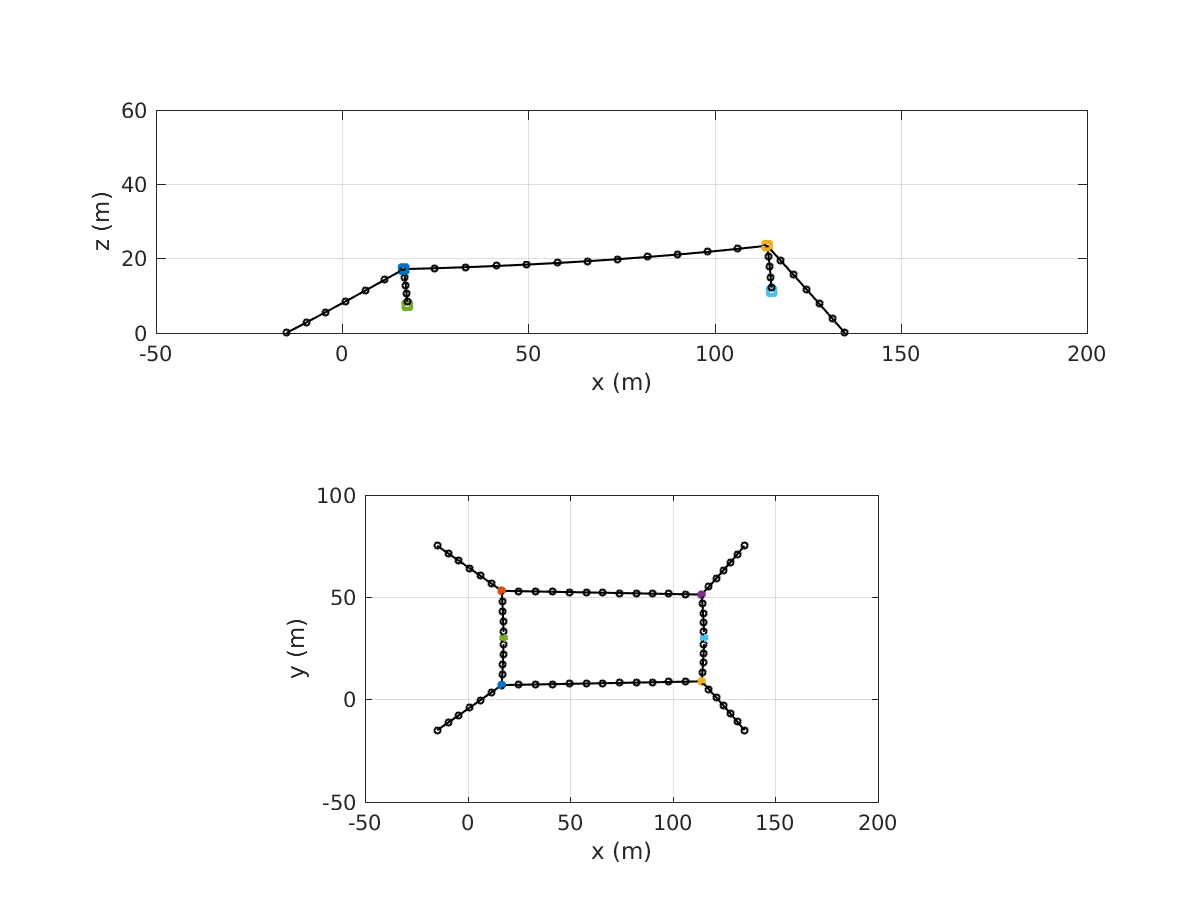
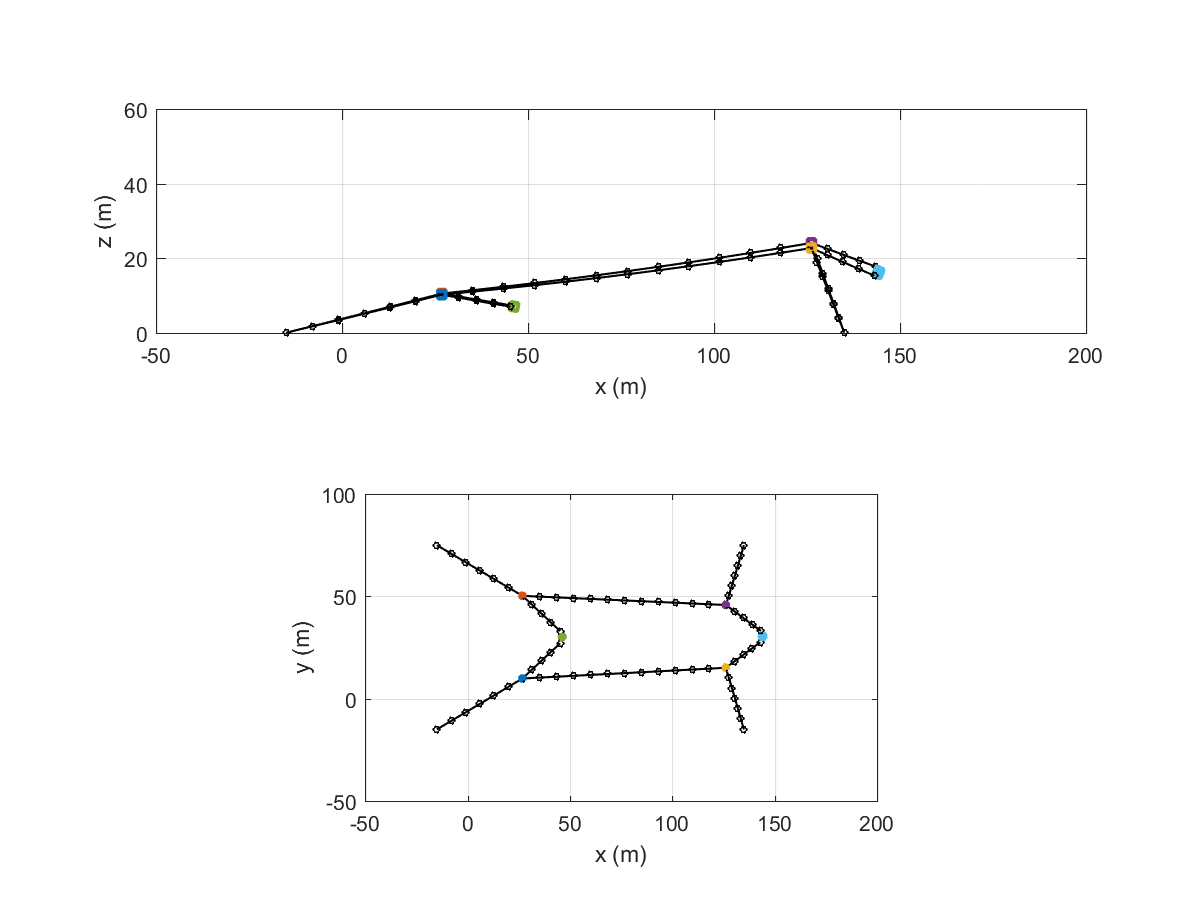
Added function GetTurbineFlowAxisUnitVector.m which returns unit vectors aligned with turbine axes based on turbine orientation.

diff --git a/UWMooringDynamics_Chapter4.m b/UWMooringDynamics_Chapter4.m
@@ -257,18 +257,18 @@ q0 = [Mooring.q0;Mooring.lambda0;Mooring.mu0;Mooring.nu0];
 hFig = plotInstant(q0,1,0);
 saveas(hFig, ['Outputs' filesep 'model_' Mooring.casename '_initial'], 'png')
 
-% solve for the "slackwater" case
-Mooring.environment.StreamVelocity = @ZeroVelocity;
-[qStatic_slackwater,err,data] = UWMDNewton(@EvaluateStaticPhi,q0);
-hFig = plotInstant(qStatic_slackwater,1,0);
-saveas(hFig, ['Outputs' filesep 'model_' Mooring.casename '_final_slackwater'], 'png')
-
-% solve for the "velocity profile" case
-Mooring.environment.StreamVelocity = @UniformVelocity;
-% Mooring.environment.StreamVelocity = Mooring.environment.InletVelocity;
-[qStatic_current,err,data] = UWMDNewton(@EvaluateStaticPhi,q0);
-hFig = plotInstant(qStatic_current,1,0);
-saveas(hFig, ['Outputs' filesep 'model_' Mooring.casename '_final_watercurrent'], 'png')
+% % solve for the "slackwater" case
+% Mooring.environment.StreamVelocity = @ZeroVelocity;
+% [qStatic_slackwater,err,data] = UWMDNewton(@EvaluateStaticPhi,q0);
+% hFig = plotInstant(qStatic_slackwater,1,0);
+% saveas(hFig, ['Outputs' filesep 'model_' Mooring.casename '_final_slackwater'], 'png')
+% 
+% % solve for the "velocity profile" case
+% Mooring.environment.StreamVelocity = @UniformVelocity;
+% % Mooring.environment.StreamVelocity = Mooring.environment.InletVelocity;
+% [qStatic_current,err,data] = UWMDNewton(@EvaluateStaticPhi,q0);
+% hFig = plotInstant(qStatic_current,1,0);
+% saveas(hFig, ['Outputs' filesep 'model_' Mooring.casename '_final_watercurrent'], 'png')
 
 
 %% CFD Coupling
@@ -296,6 +296,7 @@ if Mooring.CFD
         % run CFD to compute velocities and forces, iterate between
         % CFD and running the mooring model until posititions stabalize
         for i = 1:Mooring.OptionsCFD.NumCFDIterations
+            
             % prepare the model configuration parameters for CFD, 
             % parse the Mooring data structure and write inputs for the CFD code
             [probes, rotors] = writeInputsMooringToCFD(Mooring,qStatic); 

diff --git a/CommonFunctions/GetTurbineFlowAxisUnitVector.m b/CommonFunctions/GetTurbineFlowAxisUnitVector.m
@@ -1,0 +1,28 @@
+function [TurbineAxisUnitVector] = GetTurbineFlowAxisUnitVector(qMooring)
+
+% Finds the coordinates of the velocity probes to be used in the CFD model 
+% 
+
+global Mooring
+bodies = Mooring.bodies;
+
+BodiesThatAreTurbines = find(ismember({bodies.Type},'turbine'));
+TurbineAxisUnitVector = zeros(max(size(BodiesThatAreTurbines)),3);
+
+TurbineBodyFixedFlowAxis = [1;0;0];
+
+% Find xyz coordinates of body COM
+
+for i = 1:max(size(BodiesThatAreTurbines))
+    qBodyIndex = bodies(BodiesThatAreTurbines(i)).RowIndices;
+    alpha = qMooring(qBodyIndex(4));
+    beta = qMooring(qBodyIndex(5));
+    gamma = qMooring(qBodyIndex(6));
+    
+    A = EulerAngles(alpha,beta,gamma);
+    
+    TurbineGlobalFlowAxis = A*TurbineBodyFixedFlowAxis;
+    
+    TurbineAxisUnitVector(i,:) = TurbineGlobalFlowAxis';
+end
+        

diff --git a/CFD/utilities/writeInputsMooringToCFD.m b/CFD/utilities/writeInputsMooringToCFD.m
@@ -1,10 +1,12 @@
-function [probes, rotors] = writeInputsMooringToCFD(Mooring,qStaticNext)
+function [probes, rotors] = writeInputsMooringToCFD(Mooring,qStatic)
+
+% Get unit vectors in direction of turbine flow axis from turbine orientation
+TurbineAxisUnitVectors = GetTurbineFlowAxisUnitVector(qStatic);
 
 % parse the solution of the mooring code, to find
 % xyzProbes: table with x, y, z positions of line segment centers
 %   xyzBody: table with x, y, z positions of body COMs
-
-[xyzProbes,xyzBody] = GetProbeLocations(qStaticNext);
+[xyzProbes,xyzBody] = GetProbeLocations(qStatic);
 
 % For bodies find which indicies correspond to turbines and buoy
 % buoys: only sample 3 velocities

diff --git a/ConfigurationFiles/MezzanineConcept1Reduced.m b/ConfigurationFiles/MezzanineConcept1Reduced.m
@@ -116,11 +116,11 @@ for i = 1:size(TurbineNames,2)
     newNode('Name',TurbineNode1Names{i},...
         'Type','BodyFixed',...
         'ParentBody',TurbineNames{i},...
-        'InitPosition',[0;-3;1]);
+        'InitPosition',[0;-3;0.1]);
     newNode('Name',TurbineNode2Names{i},...
         'Type','BodyFixed',...
         'ParentBody',TurbineNames{i},...
-        'InitPosition',[0;3;1]);
+        'InitPosition',[0;3;0.1]);
 end
     
 % cell array of turbine properties, used by the CFD module (NOTE: avoid using colons, :, in these names (or else!) ... a starccm thing)

diff --git a/CommonFunctions/EulerAngles.m b/CommonFunctions/EulerAngles.m
@@ -1,5 +1,6 @@
 % X_al-Y_be-Z_gam direction cosine matrix A, Fabien Pg. 61
 function A = EulerAngles(alpha,beta,gamma)
+% (Global Frame Vector) = A*(Local Frame Vector)
 
 A11 = cos(beta)*cos(gamma);
 A12 = -cos(beta)*sin(gamma);

diff --git a/Analysis/plotInstant.m b/Analysis/plotInstant.m
@@ -78,7 +78,6 @@ view(0,0)
 
 
 %% same as the other subplot, copy it and change the view
-% hAx2 = subplot(2,2,2);
 hAx2 = subplot(2,1,2);
 cla
 copyobj(allchild(hAx1),hAx2);
